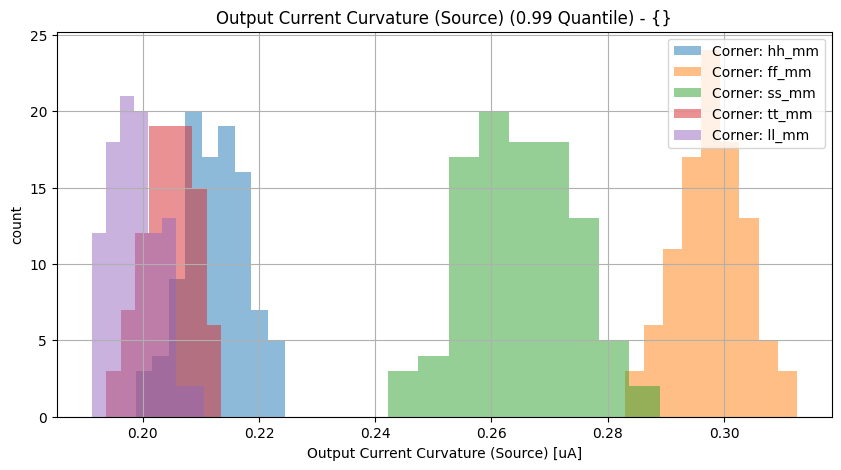
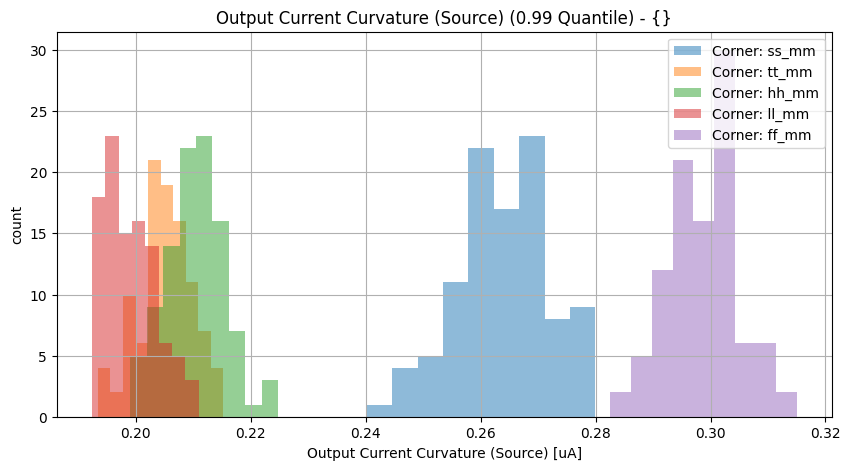
Jenkins update

diff --git a/vthref_tt/vthref/Readme.md b/vthref_tt/vthref/Readme.md
@@ -1,4 +1,4 @@
-14.08.2024, 21:35:20
+15.08.2024, 22:00:59
 
 # Vth Current Reference
 
@@ -16,6 +16,15 @@
 
 # SPECIFICATIONS
 
+## Transient Specification<br>
+
+| Parameter | Min (Spec. / Sim.) |      | Max (Sim. / Spec.) | Unit | Checks (total/pass/fail/NaN) | Comment |
+| :-------- | -----------------: | :--: | :----------------- | :--- | :--------------------------- | ------- |
+| Startup Time | 0.0 / 0.742 | <svg height="20" width="150"><polyline points="3.0,3,3.0,17,147.0,17,147.0,3" style="fill:none;stroke:gray;stroke-width:1" /><polyline points="75.0,10.0,75.0,17" style="fill:none;stroke:gray;stroke-width:1" /><polyline points="8.34172104,10.0,126.027192,10.0" style="stroke:green;stroke-width:2" /><circle cx="8.34172104" cy="10.0" r="3" style="fill:green;stroke:green;stroke-width:0" /><circle cx="126.027192" cy="10.0" r="3" style="fill:green;stroke:green;stroke-width:0" /></svg> | 17.087 / 20.0 | ms | 20/100.0%/0.0%/0.0% |  |
+
+<br>
+
+
 ## DC Specification<br>
 
 | Parameter | Min (Spec. / Sim.) |      | Max (Sim. / Spec.) | Unit | Checks (total/pass/fail/NaN) | Comment |
@@ -30,8 +39,8 @@
 
 | Parameter | Min (Spec. / Sim.) |      | Max (Sim. / Spec.) | Unit | Checks (total/pass/fail/NaN) | Comment |
 | :-------- | -----------------: | :--: | :----------------- | :--- | :--------------------------- | ------- |
-| Output Current Curvature (Sink) | 0.0 / 0.19 | <svg height="20" width="150"><polyline points="3.0,3,3.0,17,147.0,17,147.0,3" style="fill:none;stroke:gray;stroke-width:1" /><polyline points="75.0,10.0,75.0,17" style="fill:none;stroke:gray;stroke-width:1" /><polyline points="30.389894400000003,10.0,48.4832064,10.0" style="stroke:green;stroke-width:2" /><circle cx="30.389894400000003" cy="10.0" r="3" style="fill:green;stroke:green;stroke-width:0" /><circle cx="48.4832064" cy="10.0" r="3" style="fill:green;stroke:green;stroke-width:0" /></svg> | 0.316 / 1.0 | uA | 500/100.0%/0.0%/0.0% |  |
-| Output Current Curvature (Source) | 0.0 / 0.191 | <svg height="20" width="150"><polyline points="3.0,3,3.0,17,147.0,17,147.0,3" style="fill:none;stroke:gray;stroke-width:1" /><polyline points="75.0,10.0,75.0,17" style="fill:none;stroke:gray;stroke-width:1" /><polyline points="30.5468544,10.0,48.00136800000001,10.0" style="stroke:green;stroke-width:2" /><circle cx="30.5468544" cy="10.0" r="3" style="fill:green;stroke:green;stroke-width:0" /><circle cx="48.00136800000001" cy="10.0" r="3" style="fill:green;stroke:green;stroke-width:0" /></svg> | 0.313 / 1.0 | uA | 500/100.0%/0.0%/0.0% |  |
+| Output Current Curvature (Sink) | 0.0 / 0.19 | <svg height="20" width="150"><polyline points="3.0,3,3.0,17,147.0,17,147.0,3" style="fill:none;stroke:gray;stroke-width:1" /><polyline points="75.0,10.0,75.0,17" style="fill:none;stroke:gray;stroke-width:1" /><polyline points="30.4288464,10.0,49.5043536,10.0" style="stroke:green;stroke-width:2" /><circle cx="30.4288464" cy="10.0" r="3" style="fill:green;stroke:green;stroke-width:0" /><circle cx="49.5043536" cy="10.0" r="3" style="fill:green;stroke:green;stroke-width:0" /></svg> | 0.323 / 1.0 | uA | 500/100.0%/0.0%/0.0% |  |
+| Output Current Curvature (Source) | 0.0 / 0.192 | <svg height="20" width="150"><polyline points="3.0,3,3.0,17,147.0,17,147.0,3" style="fill:none;stroke:gray;stroke-width:1" /><polyline points="75.0,10.0,75.0,17" style="fill:none;stroke:gray;stroke-width:1" /><polyline points="30.7064784,10.0,48.3583008,10.0" style="stroke:green;stroke-width:2" /><circle cx="30.7064784" cy="10.0" r="3" style="fill:green;stroke:green;stroke-width:0" /><circle cx="48.3583008" cy="10.0" r="3" style="fill:green;stroke:green;stroke-width:0" /></svg> | 0.315 / 1.0 | uA | 500/100.0%/0.0%/0.0% |  |
 
 <br>
 
@@ -50,10 +59,17 @@
 
 | Parameter | Min (Spec. / Sim.) |      | Max (Sim. / Spec.) | Unit | Checks (total/pass/fail/NaN) | Comment |
 | :-------- | -----------------: | :--: | :----------------- | :--- | :--------------------------- | ------- |
-| Output Current Curvature (Sink) | 0.0 / 0.193 | <svg height="20" width="150"><polyline points="3.0,3,3.0,17,147.0,17,147.0,3" style="fill:none;stroke:gray;stroke-width:1" /><polyline points="75.0,10.0,75.0,17" style="fill:none;stroke:gray;stroke-width:1" /><polyline points="30.7551936,10.0,45.469848,10.0" style="stroke:green;stroke-width:2" /><circle cx="30.7551936" cy="10.0" r="3" style="fill:green;stroke:green;stroke-width:0" /><circle cx="45.469848" cy="10.0" r="3" style="fill:green;stroke:green;stroke-width:0" /></svg> | 0.295 / 1.0 | uA | 500/100.0%/0.0%/0.0% |  |
-| Output Current Curvature (Source) | 0.0 / 0.198 | <svg height="20" width="150"><polyline points="3.0,3,3.0,17,147.0,17,147.0,3" style="fill:none;stroke:gray;stroke-width:1" /><polyline points="75.0,10.0,75.0,17" style="fill:none;stroke:gray;stroke-width:1" /><polyline points="31.5728832,10.0,48.519753599999994,10.0" style="stroke:green;stroke-width:2" /><circle cx="31.5728832" cy="10.0" r="3" style="fill:green;stroke:green;stroke-width:0" /><circle cx="48.519753599999994" cy="10.0" r="3" style="fill:green;stroke:green;stroke-width:0" /></svg> | 0.316 / 1.0 | uA | 500/100.0%/0.0%/0.0% |  |
+| Output Current Curvature (Sink) | 0.0 / 0.193 | <svg height="20" width="150"><polyline points="3.0,3,3.0,17,33.70793301064414,17,33.70793301064414,3" style="fill:none;stroke:gray;stroke-width:1" /><polyline points="18.35396650532207,10.0,18.35396650532207,17" style="fill:none;stroke:gray;stroke-width:1" /><polyline points="8.924349471631627,10.0,147.0,10.0" style="stroke:red;stroke-width:2" /><circle cx="8.924349471631627" cy="10.0" r="3" style="fill:red;stroke:red;stroke-width:0" /><circle cx="147.0" cy="10.0" r="3" style="fill:red;stroke:red;stroke-width:0" /></svg> | 4.689 / 1.0 | uA | 500/99.8%/0.2%/0.0% |  |
+| Output Current Curvature (Source) | 0.0 / 0.2 | <svg height="20" width="150"><polyline points="3.0,3,3.0,17,34.19534721396303,17,34.19534721396303,3" style="fill:none;stroke:gray;stroke-width:1" /><polyline points="18.597673606981516,10.0,18.597673606981516,17" style="fill:none;stroke:gray;stroke-width:1" /><polyline points="9.247158396325187,10.0,147.0,10.0" style="stroke:red;stroke-width:2" /><circle cx="9.247158396325187" cy="10.0" r="3" style="fill:red;stroke:red;stroke-width:0" /><circle cx="147.0" cy="10.0" r="3" style="fill:red;stroke:red;stroke-width:0" /></svg> | 4.616 / 1.0 | uA | 500/99.8%/0.2%/0.0% |  |
 
-<br>
+<details><summary>Show specification violation details...</summary>
+
+> **FAIL:** Specification violation for parameter "Output Current Curvature (Sink)":<br>
+> **FAIL:** group:ff_mm file:work/sim/vthref/vthref_tb.4_dcext/batch_1/ff_mm/dc.csv Index:13 <br>
+
+> **FAIL:** Specification violation for parameter "Output Current Curvature (Source)":<br>
+> **FAIL:** group:ff_mm file:work/sim/vthref/vthref_tb.4_dcext/batch_1/ff_mm/dc.csv Index:13 <br>
+</details><br>
 
 
 # PERFORMANCE CHARACTERISTICS

diff --git a/vthref_tt/vthref/specReport.md b/vthref_tt/vthref/specReport.md
@@ -1,4 +1,13 @@
 
+# Transient Specification<br>
+
+| Parameter | Min (Spec. / Sim.) |      | Max (Sim. / Spec.) | Unit | Checks (total/pass/fail/NaN) | Comment |
+| :-------- | -----------------: | :--: | :----------------- | :--- | :--------------------------- | ------- |
+| Startup Time | 0.0 / 0.742 | <svg height="20" width="150"><polyline points="3.0,3,3.0,17,147.0,17,147.0,3" style="fill:none;stroke:gray;stroke-width:1" /><polyline points="75.0,10.0,75.0,17" style="fill:none;stroke:gray;stroke-width:1" /><polyline points="8.34172104,10.0,126.027192,10.0" style="stroke:green;stroke-width:2" /><circle cx="8.34172104" cy="10.0" r="3" style="fill:green;stroke:green;stroke-width:0" /><circle cx="126.027192" cy="10.0" r="3" style="fill:green;stroke:green;stroke-width:0" /></svg> | 17.087 / 20.0 | ms | 20/100.0%/0.0%/0.0% |  |
+
+<br>
+
+
 # DC Specification<br>
 
 | Parameter | Min (Spec. / Sim.) |      | Max (Sim. / Spec.) | Unit | Checks (total/pass/fail/NaN) | Comment |
@@ -13,8 +22,8 @@
 
 | Parameter | Min (Spec. / Sim.) |      | Max (Sim. / Spec.) | Unit | Checks (total/pass/fail/NaN) | Comment |
 | :-------- | -----------------: | :--: | :----------------- | :--- | :--------------------------- | ------- |
-| Output Current Curvature (Sink) | 0.0 / 0.19 | <svg height="20" width="150"><polyline points="3.0,3,3.0,17,147.0,17,147.0,3" style="fill:none;stroke:gray;stroke-width:1" /><polyline points="75.0,10.0,75.0,17" style="fill:none;stroke:gray;stroke-width:1" /><polyline points="30.389894400000003,10.0,48.4832064,10.0" style="stroke:green;stroke-width:2" /><circle cx="30.389894400000003" cy="10.0" r="3" style="fill:green;stroke:green;stroke-width:0" /><circle cx="48.4832064" cy="10.0" r="3" style="fill:green;stroke:green;stroke-width:0" /></svg> | 0.316 / 1.0 | uA | 500/100.0%/0.0%/0.0% |  |
-| Output Current Curvature (Source) | 0.0 / 0.191 | <svg height="20" width="150"><polyline points="3.0,3,3.0,17,147.0,17,147.0,3" style="fill:none;stroke:gray;stroke-width:1" /><polyline points="75.0,10.0,75.0,17" style="fill:none;stroke:gray;stroke-width:1" /><polyline points="30.5468544,10.0,48.00136800000001,10.0" style="stroke:green;stroke-width:2" /><circle cx="30.5468544" cy="10.0" r="3" style="fill:green;stroke:green;stroke-width:0" /><circle cx="48.00136800000001" cy="10.0" r="3" style="fill:green;stroke:green;stroke-width:0" /></svg> | 0.313 / 1.0 | uA | 500/100.0%/0.0%/0.0% |  |
+| Output Current Curvature (Sink) | 0.0 / 0.19 | <svg height="20" width="150"><polyline points="3.0,3,3.0,17,147.0,17,147.0,3" style="fill:none;stroke:gray;stroke-width:1" /><polyline points="75.0,10.0,75.0,17" style="fill:none;stroke:gray;stroke-width:1" /><polyline points="30.4288464,10.0,49.5043536,10.0" style="stroke:green;stroke-width:2" /><circle cx="30.4288464" cy="10.0" r="3" style="fill:green;stroke:green;stroke-width:0" /><circle cx="49.5043536" cy="10.0" r="3" style="fill:green;stroke:green;stroke-width:0" /></svg> | 0.323 / 1.0 | uA | 500/100.0%/0.0%/0.0% |  |
+| Output Current Curvature (Source) | 0.0 / 0.192 | <svg height="20" width="150"><polyline points="3.0,3,3.0,17,147.0,17,147.0,3" style="fill:none;stroke:gray;stroke-width:1" /><polyline points="75.0,10.0,75.0,17" style="fill:none;stroke:gray;stroke-width:1" /><polyline points="30.7064784,10.0,48.3583008,10.0" style="stroke:green;stroke-width:2" /><circle cx="30.7064784" cy="10.0" r="3" style="fill:green;stroke:green;stroke-width:0" /><circle cx="48.3583008" cy="10.0" r="3" style="fill:green;stroke:green;stroke-width:0" /></svg> | 0.315 / 1.0 | uA | 500/100.0%/0.0%/0.0% |  |
 
 <br>
 
@@ -33,8 +42,15 @@
 
 | Parameter | Min (Spec. / Sim.) |      | Max (Sim. / Spec.) | Unit | Checks (total/pass/fail/NaN) | Comment |
 | :-------- | -----------------: | :--: | :----------------- | :--- | :--------------------------- | ------- |
-| Output Current Curvature (Sink) | 0.0 / 0.193 | <svg height="20" width="150"><polyline points="3.0,3,3.0,17,147.0,17,147.0,3" style="fill:none;stroke:gray;stroke-width:1" /><polyline points="75.0,10.0,75.0,17" style="fill:none;stroke:gray;stroke-width:1" /><polyline points="30.7551936,10.0,45.469848,10.0" style="stroke:green;stroke-width:2" /><circle cx="30.7551936" cy="10.0" r="3" style="fill:green;stroke:green;stroke-width:0" /><circle cx="45.469848" cy="10.0" r="3" style="fill:green;stroke:green;stroke-width:0" /></svg> | 0.295 / 1.0 | uA | 500/100.0%/0.0%/0.0% |  |
-| Output Current Curvature (Source) | 0.0 / 0.198 | <svg height="20" width="150"><polyline points="3.0,3,3.0,17,147.0,17,147.0,3" style="fill:none;stroke:gray;stroke-width:1" /><polyline points="75.0,10.0,75.0,17" style="fill:none;stroke:gray;stroke-width:1" /><polyline points="31.5728832,10.0,48.519753599999994,10.0" style="stroke:green;stroke-width:2" /><circle cx="31.5728832" cy="10.0" r="3" style="fill:green;stroke:green;stroke-width:0" /><circle cx="48.519753599999994" cy="10.0" r="3" style="fill:green;stroke:green;stroke-width:0" /></svg> | 0.316 / 1.0 | uA | 500/100.0%/0.0%/0.0% |  |
+| Output Current Curvature (Sink) | 0.0 / 0.193 | <svg height="20" width="150"><polyline points="3.0,3,3.0,17,33.70793301064414,17,33.70793301064414,3" style="fill:none;stroke:gray;stroke-width:1" /><polyline points="18.35396650532207,10.0,18.35396650532207,17" style="fill:none;stroke:gray;stroke-width:1" /><polyline points="8.924349471631627,10.0,147.0,10.0" style="stroke:red;stroke-width:2" /><circle cx="8.924349471631627" cy="10.0" r="3" style="fill:red;stroke:red;stroke-width:0" /><circle cx="147.0" cy="10.0" r="3" style="fill:red;stroke:red;stroke-width:0" /></svg> | 4.689 / 1.0 | uA | 500/99.8%/0.2%/0.0% |  |
+| Output Current Curvature (Source) | 0.0 / 0.2 | <svg height="20" width="150"><polyline points="3.0,3,3.0,17,34.19534721396303,17,34.19534721396303,3" style="fill:none;stroke:gray;stroke-width:1" /><polyline points="18.597673606981516,10.0,18.597673606981516,17" style="fill:none;stroke:gray;stroke-width:1" /><polyline points="9.247158396325187,10.0,147.0,10.0" style="stroke:red;stroke-width:2" /><circle cx="9.247158396325187" cy="10.0" r="3" style="fill:red;stroke:red;stroke-width:0" /><circle cx="147.0" cy="10.0" r="3" style="fill:red;stroke:red;stroke-width:0" /></svg> | 4.616 / 1.0 | uA | 500/99.8%/0.2%/0.0% |  |
 
-<br>
+<details><summary>Show specification violation details...</summary>
+
+> **FAIL:** Specification violation for parameter "Output Current Curvature (Sink)":<br>
+> **FAIL:** group:ff_mm file:work/sim/vthref/vthref_tb.4_dcext/batch_1/ff_mm/dc.csv Index:13 <br>
+
+> **FAIL:** Specification violation for parameter "Output Current Curvature (Source)":<br>
+> **FAIL:** group:ff_mm file:work/sim/vthref/vthref_tb.4_dcext/batch_1/ff_mm/dc.csv Index:13 <br>
+</details><br>
 

diff --git a/sar8/tg/Readme.md b/sar8/tg/Readme.md
@@ -1,4 +1,4 @@
-14.08.2024, 21:35:20
+15.08.2024, 22:00:59
 
 # ADC Transmission Gate / Sample Switch
 

diff --git a/bmbg/bmbgota/Readme.md b/bmbg/bmbgota/Readme.md
@@ -1,4 +1,4 @@
-14.08.2024, 21:35:20
+15.08.2024, 22:00:59
 
 # Beta-Multiplier Bandgap OTA
 

diff --git a/bmbg/bmbg/Readme.md b/bmbg/bmbg/Readme.md
@@ -1,4 +1,4 @@
-14.08.2024, 21:35:20
+15.08.2024, 22:00:59
 
 # Beta-Multiplier Bandgap
 

diff --git a/vthref/vthref/Readme.md b/vthref/vthref/Readme.md
@@ -1,4 +1,4 @@
-14.08.2024, 21:35:20
+15.08.2024, 22:00:59
 
 # Vth Current Reference
 

diff --git a/riosc/riosc/Readme.md b/riosc/riosc/Readme.md
@@ -1,4 +1,4 @@
-14.08.2024, 21:35:20
+15.08.2024, 22:00:59
 
 # Ring Oscillator
 

diff --git a/sar8/cmp/Readme.md b/sar8/cmp/Readme.md
@@ -1,4 +1,4 @@
-14.08.2024, 21:35:20
+15.08.2024, 22:00:59
 
 # ADC Comparator
 

diff --git a/ldo/ldo/Readme.md b/ldo/ldo/Readme.md
@@ -1,4 +1,4 @@
-14.08.2024, 21:35:20
+15.08.2024, 22:00:59
 
 # 1.8 V LDO
 

diff --git a/sar8/sar8/Readme.md b/sar8/sar8/Readme.md
@@ -1,4 +1,4 @@
-14.08.2024, 21:35:20
+15.08.2024, 22:00:59
 
 # 5 V ADC
 

diff --git a/ldo/ldoota/Readme.md b/ldo/ldoota/Readme.md
@@ -1,4 +1,4 @@
-14.08.2024, 21:35:20
+15.08.2024, 22:00:59
 
 # LDO OP
 
